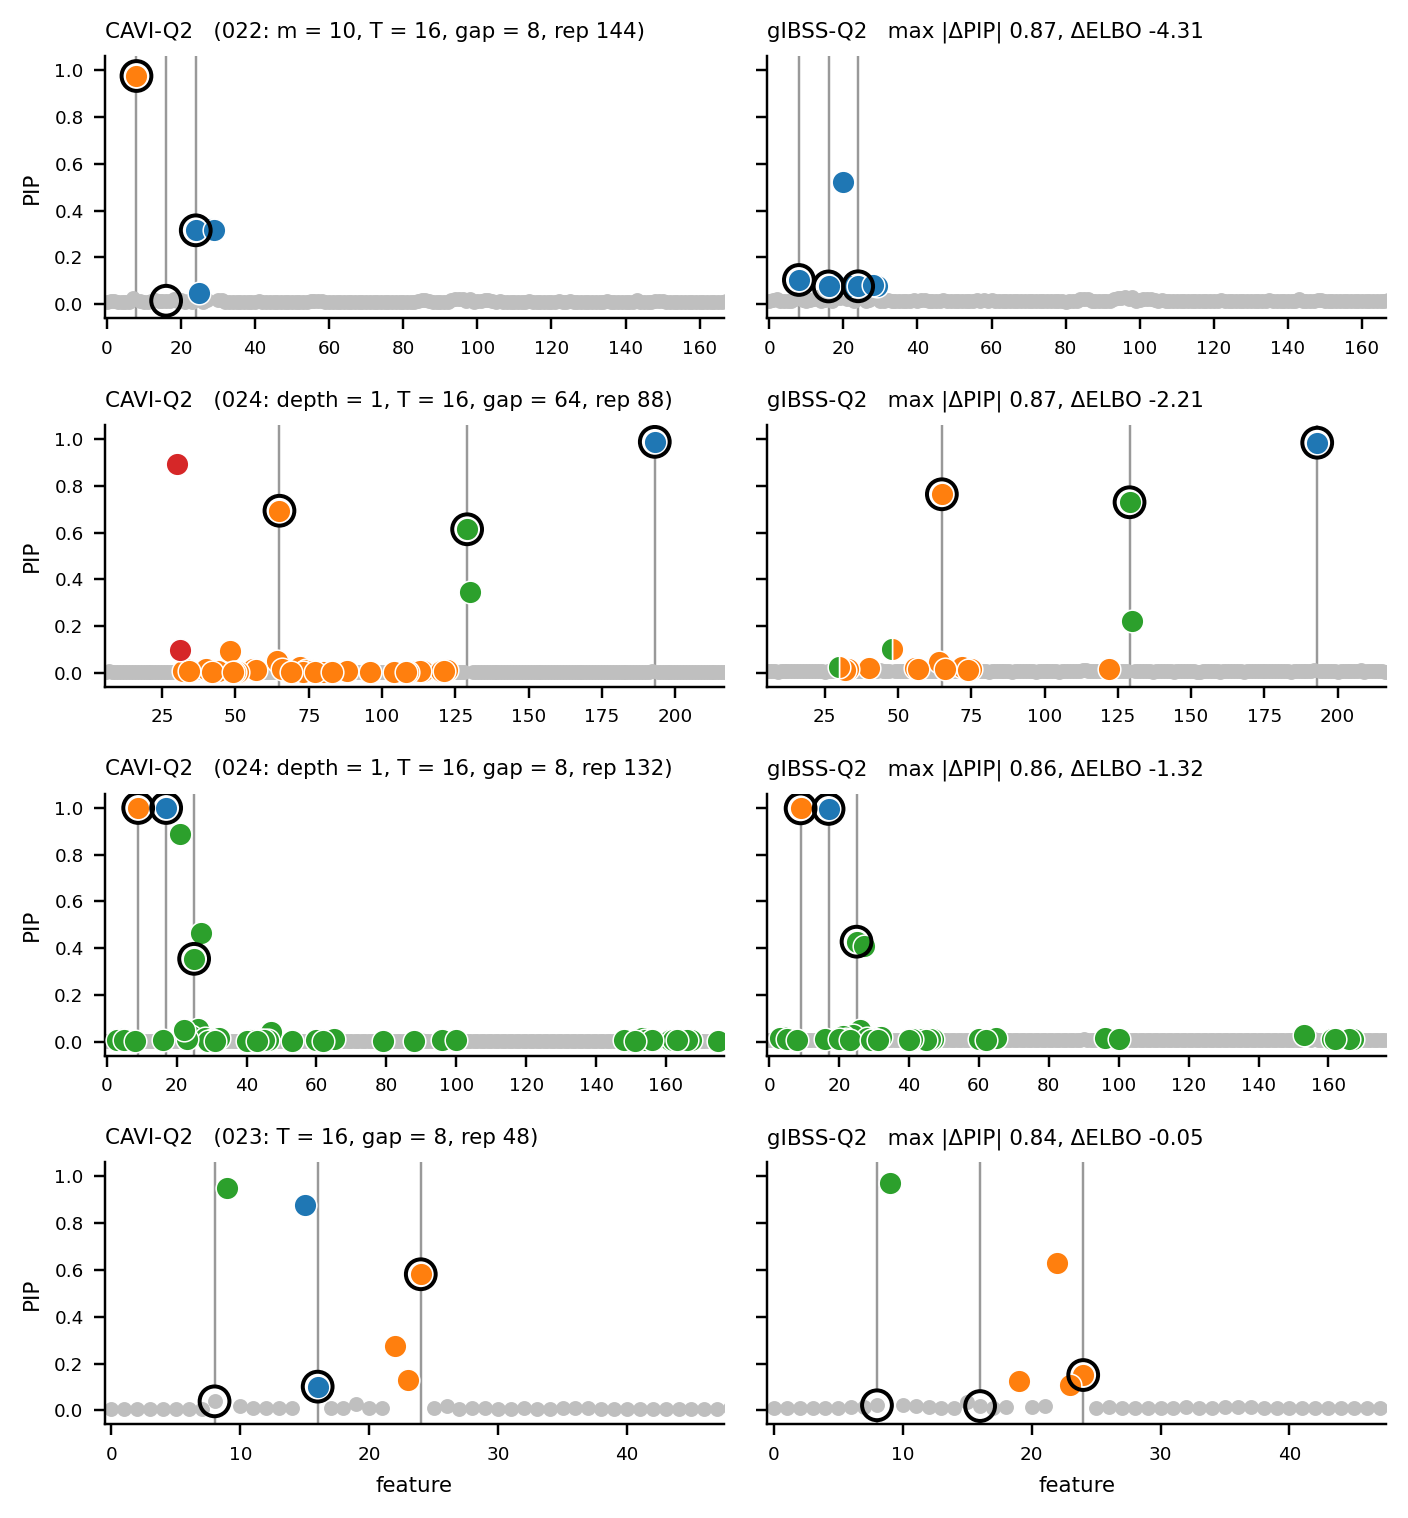
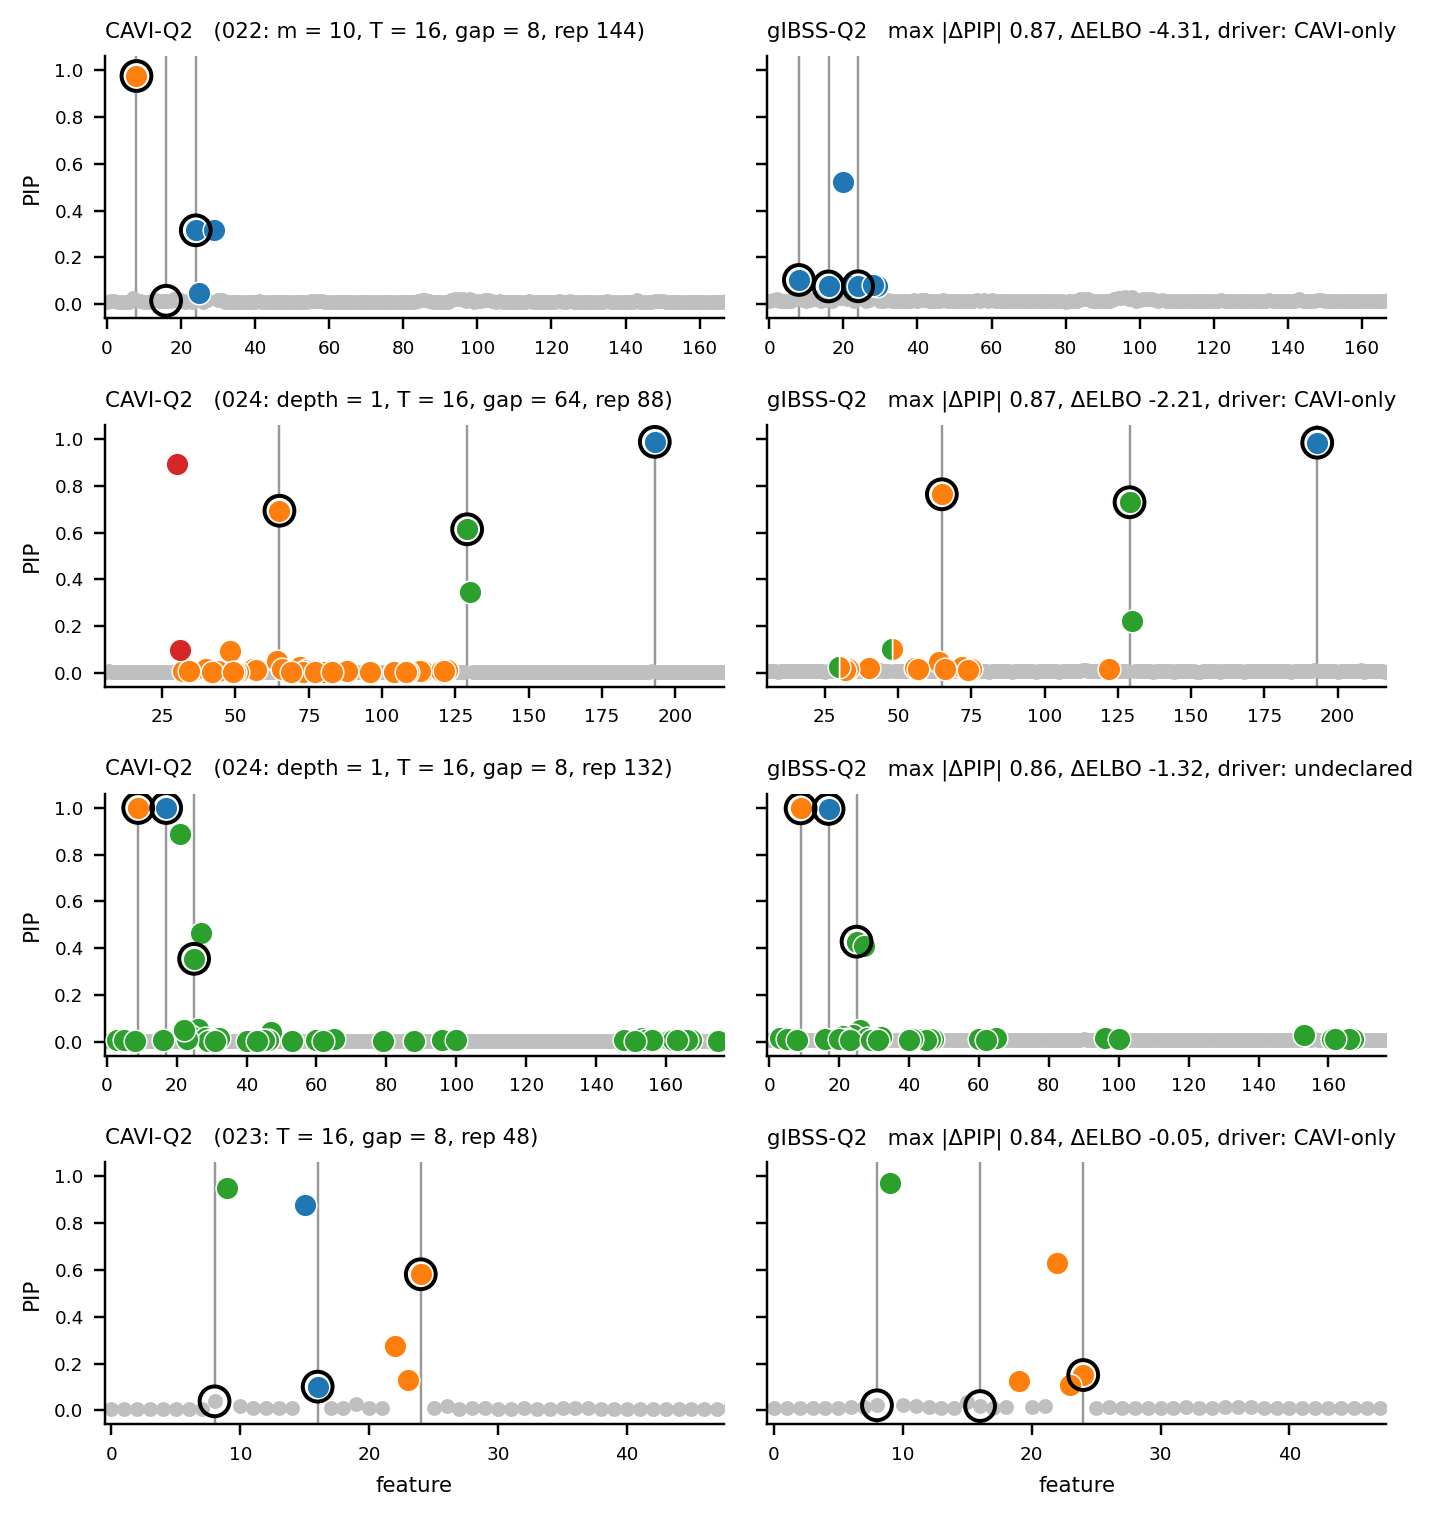
feat(twogroup): attribute large PIP gaps to matched component pairs
For fits with max |dPIP| > 0.1, split log(1 - PIP) at the worst feature over matched
component pairs and classify the driving pair: same CS, CS moved, CAVI-only, arm-only
(near/far from the log BF threshold), or undeclared. Adds driver, undeclared-profile and
declared-count pattern tables; worst-replicate titles name the driver.

diff --git a/twogroup_experiments/analysis/logistic_laplace_simulations/pip_agreement.py b/twogroup_experiments/analysis/logistic_laplace_simulations/pip_agreement.py
@@ -389,6 +389,7 @@ def replicate_figure(rows: list[dict], window: int = 24):
                              squeeze=False)
     for i, row in enumerate(rows):
         ref_se, arm_se, causal = replicate_pair(row)
+        why = explain(ref_se, arm_se, causal)
         order = match(_components(ref_se)[0], _components(arm_se)[0])
         states = [_State(ref_se), _State(arm_se, order)]
         hot = np.flatnonzero(np.maximum(states[0].pip, states[1].pip) >= 0.02)
@@ -406,7 +407,117 @@ def replicate_figure(rows: list[dict], window: int = 24):
             if k == 0:
                 title += f"   ({row['exp']}: {cellname}, rep {row['rep']})"
             else:
-                title += f"   max |ΔPIP| {row['max_pip']:.2f}, ΔELBO {row['d_elbo']:+.2f}"
+                title += (f"   max |ΔPIP| {row['max_pip']:.2f}, ΔELBO {row['d_elbo']:+.2f}, "
+                          f"driver: {why['driver']}")
             ax.set_title(title, fontsize=7, loc="left")
     fig.tight_layout()
     return fig
+
+
+# ------------------------------------------------------------------------------ why PIPs differ
+# Matched components make log(1 - PIP_j) additive over pairs:
+#   log(1 - PIP'_j) - log(1 - PIP_j) = sum_l [log(1 - alpha'_{s(l)j}) - log(1 - alpha_lj)],
+# so the PIP gap at the worst feature j* splits exactly into one term per matched pair. The pair
+# with the largest |term| drives the gap; it is classified by which side declares it.
+DRIVERS = ["same CS", "CS moved", "CAVI-only", "arm-only", "undeclared"]
+NEAR = 1.0   # a one-sided pair is "near threshold" when the other side's log BF >= MIN_LOG_BF - NEAR
+
+
+def explain(ref_se: list[dict], arm_se: list[dict], causal: list[int]) -> dict:
+    """Attribute the fit's largest PIP difference to a matched component pair."""
+    la, lbf_a = _components(ref_se)
+    lb, lbf_b = _components(arm_se)
+    order = match(la, lb)
+    a, b, lbf_b = np.exp(la), np.exp(lb)[order], lbf_b[order]
+    pa, pb = _pip(la), 1.0 - np.prod(1.0 - b, axis=0)
+    j = int(np.abs(pa - pb).argmax())
+    eps = 1e-12
+    terms = np.log1p(-np.minimum(b[:, j], 1 - eps)) - np.log1p(-np.minimum(a[:, j], 1 - eps))
+    l = int(np.abs(terms).argmax())
+    dr, da = lbf_a >= R.MIN_LOG_BF, lbf_b >= R.MIN_LOG_BF
+    if dr[l] and da[l]:
+        same = j in set(_cs(a[l])) and j in set(_cs(b[l]))
+        driver = DRIVERS[0] if same else DRIVERS[1]
+        other = np.nan
+    elif dr[l]:
+        driver, other = DRIVERS[2], float(lbf_b[l])
+    elif da[l]:
+        driver, other = DRIVERS[3], float(lbf_a[l])
+    else:
+        driver, other = DRIVERS[4], np.nan
+    truth = 1.0 if j in set(causal) else 0.0
+    return {"j": j, "j_causal": bool(truth), "pip_ref_j": float(pa[j]), "pip_arm_j": float(pb[j]),
+            "ref_closer": bool(abs(pa[j] - truth) < abs(pb[j] - truth)),
+            "driver": driver, "driver_share": float(abs(terms[l]) / np.abs(terms).sum()),
+            "other_log_bf": other, "near": bool(other >= R.MIN_LOG_BF - NEAR),
+            "driver_log_bf_ref": float(lbf_a[l]), "driver_log_bf_arm": float(lbf_b[l]),
+            "driver_alpha_ref_j": float(a[l, j]), "driver_alpha_arm_j": float(b[l, j]),
+            "n_shared": int((dr & da).sum()), "n_ref_only": int((dr & ~da).sum()),
+            "n_arm_only": int((~dr & da).sum())}
+
+
+def tail_frame(fits: pl.DataFrame, threshold: float = 0.1, methods=ARMS) -> pl.DataFrame:
+    """`explain` for every fit with max |dPIP| > threshold (re-reads the two fits.parquet)."""
+    tail = fits.filter((pl.col("max_pip") > threshold) & pl.col("method").is_in(list(methods)))
+    out = []
+    cols = ["replicate", "single_effects", "credible_sets"]
+    for (rf, af), g in tail.group_by("ref_file", "arm_file", maintain_order=True):
+        reps = set(g["rep"].to_list())
+        ref = {r["replicate"]: r for r in pl.read_parquet(rf, columns=cols).iter_rows(named=True)
+               if r["replicate"] in reps}
+        arm = {r["replicate"]: r for r in pl.read_parquet(af, columns=cols).iter_rows(named=True)
+               if r["replicate"] in reps}
+        for row in g.iter_rows(named=True):
+            r0, r1 = ref[row["rep"]], arm[row["rep"]]
+            causal = sorted({j for cs in r0["credible_sets"] for j in cs["causal_indices"]})
+            out.append({**{k: row[k] for k in ("exp", "L", "method", "batch_hash", "rep",
+                                                "max_pip", "d_elbo")},
+                        **explain(r0["single_effects"], r1["single_effects"], causal)})
+    return pl.DataFrame(out, infer_schema_length=None)
+
+
+def driver_table(tf: pl.DataFrame) -> pl.DataFrame:
+    """Per arm and L: tail fits, the share driven by each pair type (one-sided split into near /
+    far from the threshold), the median share of the gap the driving pair explains, and how often
+    CAVI-Q2's PIP at j* is the closer one to the truth (1 if j* is causal, else 0)."""
+    g = (tf.group_by("method", "L")
+         .agg(pl.len().alias("fits"),
+              *[(pl.col("driver") == d).mean().alias(d) for d in DRIVERS[:2]],
+              *[((pl.col("driver") == d) & f).mean().alias(f"{d} {lab}")
+                for d in DRIVERS[2:4] for f, lab in ((pl.col("near"), "near"), (~pl.col("near"), "far"))],
+              (pl.col("driver") == DRIVERS[4]).mean().alias(DRIVERS[4]),
+              pl.col("driver_share").median().alias("driver explains"),
+              pl.col("ref_closer").mean().alias("CAVI-Q2 closer")))
+    return (g.sort(pl.col("method").replace_strict({m: i for i, m in enumerate(R.METHODS)},
+                                                   return_dtype=pl.Int8), "L")
+            .with_columns(pl.col("method").replace_strict(R.METHOD_LABEL).alias("arm"))
+            .drop("method").select("arm", pl.exclude("arm")))
+
+
+def pattern_table(tf: pl.DataFrame, method: str = "gibss", L: int = 5, top: int = 8) -> pl.DataFrame:
+    """Most common (shared, CAVI-only, arm-only) declared-pair counts among tail fits."""
+    t = tf.filter((pl.col("method") == method) & (pl.col("L") == L))
+    return (t.group_by("n_shared", "n_ref_only", "n_arm_only")
+            .agg(pl.len().alias("fits"), pl.col("d_elbo").median().alias("median ΔELBO"),
+                 pl.col("ref_closer").mean().alias("CAVI-Q2 closer to truth"))
+            .with_columns((pl.col("fits") / t.height).alias("share"))
+            .sort("fits", descending=True).head(top)
+            .rename({"n_shared": "shared", "n_ref_only": "CAVI-only", "n_arm_only": "arm-only"}))
+
+
+def undeclared_table(tf: pl.DataFrame, methods=("gibss", "laplace")) -> pl.DataFrame:
+    """Tail fits driven by a pair neither side declares: the pair's log BFs, its largest alpha at
+    j*, whether j* is causal, and which side has the higher PIP there."""
+    u = tf.filter((pl.col("driver") == DRIVERS[4]) & pl.col("method").is_in(list(methods)))
+    return (u.group_by("method", "L")
+            .agg(pl.len().alias("fits"),
+                 pl.col("driver_log_bf_ref").median().alias("log BF, CAVI-Q2"),
+                 pl.col("driver_log_bf_arm").median().alias("log BF, arm"),
+                 pl.col("driver_alpha_ref_j").median().alias("α at j*, CAVI-Q2"),
+                 pl.col("driver_alpha_arm_j").median().alias("α at j*, arm"),
+                 pl.col("j_causal").mean().alias("j* causal"),
+                 (pl.col("pip_ref_j") > pl.col("pip_arm_j")).mean().alias("CAVI-Q2 PIP higher"))
+            .sort(pl.col("method").replace_strict({m: i for i, m in enumerate(R.METHODS)},
+                                                  return_dtype=pl.Int8), "L")
+            .with_columns(pl.col("method").replace_strict(R.METHOD_LABEL).alias("arm"))
+            .drop("method").select("arm", pl.exclude("arm")))
